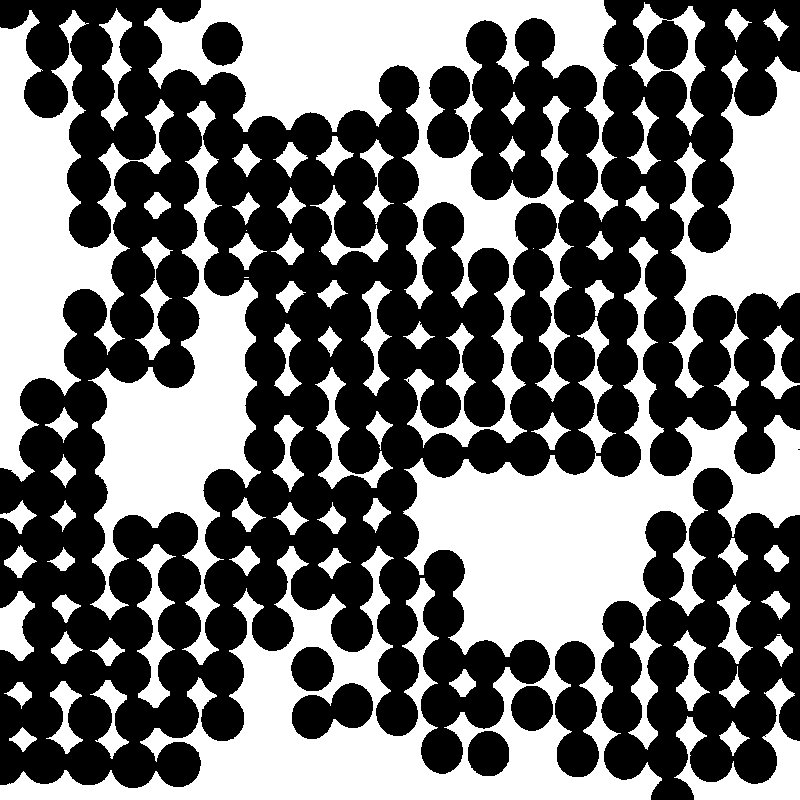
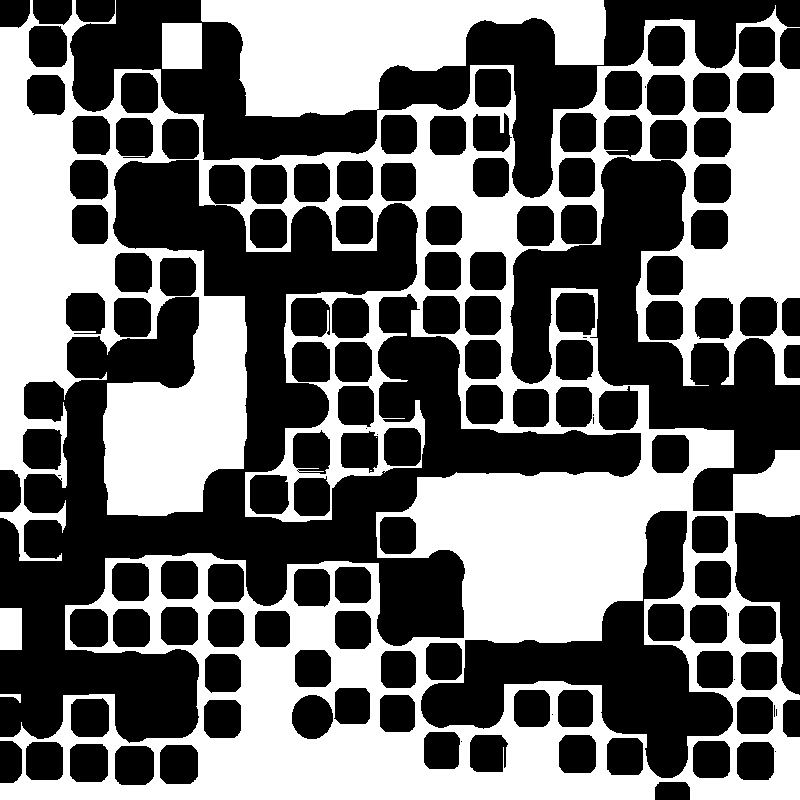
1124

diff --git a/ALT/PyTest.py b/ALT/PyTest.py
@@ -1,0 +1,197 @@
+import cv2
+import numpy as np
+import matplotlib.pyplot as plt
+import re
+import csv
+import os
+if os.name == 'nt': os.system('cls')
+else : os.system("clear")
+
+
+#           --- 関数の定義 ---
+
+# 交点位置の計算？
+def retCrossPoints(img):
+    crossPoints = []
+    # img.shape[B] = 画像の高さ　([1]だと幅、[2]だとチャンネル数)
+    interval = img.shape[0]/18  # interval = 画像の高さ/ 18……交点付与用の座標
+    for i in range(19): # in range(x)：x回繰り返す。この場合19回。C言語でいう「for(i=B; i<19; i++)」
+        row = []
+        for j in range(19): 
+            x = int(i*interval)
+            y = int(j*interval)
+            if i==0:
+                x += 7   # i=Bのとき、x座標+7    （端だけ交点をずらす）
+            if j==0:
+                y += 7   # jも同様
+            if i==18:
+                x -= 7  # i=18のとき、x座標-7   （端だけ交点をずらす）
+            if j==18:
+                y -= 7  # jも同様
+            row.append([y, x])  # row.append()：リスト末尾に要素を追加
+        crossPoints.append(row) # crossPoints=交点の座標がまとまったリスト  [[[x1,y1]，[x2,y2]，……]]
+    return crossPoints  
+
+# 交点の描画
+def drawCrossPoints(img):
+    outputImg = img.copy()
+    crossPoints = retCrossPoints(img)    
+    for p_row in crossPoints:
+        for p in p_row: 
+            # cv2.drawMarker(画像, 座標, 色, タイプ, サイズ, 薄さ, 線タイプ値)
+            cv2.drawMarker(outputImg, (p[0],p[1]), (0, 255, 0), cv2.MARKER_TILTED_CROSS, 10, 2)
+    return outputImg
+
+# 交点周囲（四角形）の描画
+def drawXP_Rect(img):
+    outputImg = img.copy()
+    crossPoints = retCrossPoints(img)    
+    for p_row in crossPoints:
+        for p in p_row:
+            cv2.rectangle(outputImg, (p[0]-4,p[1]-4),(p[0]+7,p[1]+7),(0,255,0),1)
+
+    return outputImg
+
+# 石の位置・種類の判別
+def checkStonePosition(img):
+    crossPoints = retCrossPoints(img)
+    conditionOfBoard = []
+    none = 10.0
+    blackStone = 80.0
+    whiteStone = 120.0
+
+    for p_row in crossPoints:
+        condition_row = []
+        for p in p_row:
+            # print("["+str(p_row.index(p)+1)+", "+str(crossPoints.index(p_row)+1)+"]")
+
+            # 交点の周囲（=drawCrossPointsによって付与される緑枠内）の全ピクセルのBGRを取得
+            rect = img[p[1]-3:p[1]+7, p[0]-3:p[0]+7]
+
+            # rect（=緑枠内の全ピクセルのBGR）の平均値を取得
+            colorAve = np.average(rect)
+            # p = [p[1],p[B]] = [y,x]
+            # print('colorAve' + "["+str(crossPoints.index(p_row)+1)+", "+str(p_row.index(p)+1)+"]" + ':' +str(colorAve))
+            
+            # 「目標の交点の、その周囲のRGB値の平均」(colorAve)が閾値を下回ってるかどうかで、石の有無を判別
+            if colorAve < none:
+                condition_row.append("N")
+            elif colorAve < blackStone:
+                condition_row.append("B")
+            elif colorAve > whiteStone:
+                condition_row.append("W")  
+        conditionOfBoard.append(condition_row)
+
+    # これに石の情報があった！！
+    # print(conditionOfBoard)
+    return conditionOfBoard
+
+# checkStonePositionの石情報リストをもとに、画像上に点を付与する。
+def drawTerritoryColor(img,territoryTable):
+    outputImg = img.copy()
+    crossPoints = retCrossPoints(img)
+    i = 0
+    for p_row in crossPoints:
+        j = 0
+        for p in p_row:
+            state = territoryTable[i][j]
+            if state=="B":
+                cv2.drawMarker(outputImg, (p[0],p[1]), (0, 0, 255), cv2.MARKER_TILTED_CROSS, 10, 2)
+            elif state=="W":
+                cv2.drawMarker(outputImg, (p[0],p[1]), (255, 0, 0), cv2.MARKER_TILTED_CROSS, 10, 2)
+            elif state=="N":
+                cv2.drawMarker(outputImg, (p[0],p[1]), (0, 255, 0), cv2.MARKER_CROSS, 10)
+            j += 1
+        i += 1
+    return outputImg
+
+
+# 仕組みはdrawTerritoryColorと同様。compareの内容に応じて画像上に点を付与する。
+def drawCompareStone(img,territoryTable):
+    outputImg = img.copy()
+    crossPoints = retCrossPoints(img)
+    i = 0
+    for p_row in crossPoints:
+        j = 0
+        for p in p_row:
+            state = territoryTable[i][j]
+            if str(state)=="False":
+                cv2.drawMarker(outputImg, (p[0],p[1]), (0, 255, 0), cv2.MARKER_TILTED_CROSS, 10, 2)
+            j += 1
+        i += 1
+    return outputImg
+
+#           --- 処理開始 ---
+
+img_A = cv2.imread("./A.png")
+img_B = cv2.imread("./B.png")
+
+# 交点付与
+PTS_A = drawCrossPoints(img_A)
+cv2.imshow("PTS_A",PTS_A)
+cv2.waitKey(0)
+
+PTS_B = drawCrossPoints(img_B)
+cv2.imshow("PTS_B",PTS_B)
+cv2.waitKey(0)
+
+# resに点を付与
+RES_A = drawXP_Rect(PTS_A)
+cv2.imshow("RES_A",RES_A)
+cv2.waitKey(0)
+
+RES_B = drawXP_Rect(PTS_B)
+cv2.imshow("RES_B",RES_B)
+cv2.waitKey(0)
+
+
+stonePosition_A = checkStonePosition(RES_A)
+stonePosition_B = checkStonePosition(RES_B)
+# print(re.sub("[|[[|]|]|],", "", str(stonePosition).replace("], [","], \n[")))
+# stonePosition の情報を.csvに保存
+# with open('./Results/stonePosition.csv', 'w', newline="") as f:
+#     writer = csv.writer(f)
+#     writer.writerows(stonePosition)
+
+# print("stonePosition: \n" + str(stonePosition).replace("], [","], \n[") + "\n")
+
+# 結果
+RESULT_A = drawTerritoryColor(img_A,stonePosition_A)
+cv2.imshow("RESULT_A",RESULT_A)
+cv2.waitKey(0)
+
+RESULT_B = drawTerritoryColor(img_B,stonePosition_B)
+cv2.imshow("RESULT_B",RESULT_B)
+cv2.waitKey(0)
+
+
+print("END")
+
+'''
+# 偽の碁盤情報を用意、stonePositionと比較
+dummy = [
+[N, B, B, W, W, N, N, N, N, N, N, N, N, N, W, W, W, W, B], 
+[N, B, W, W, N, W, N, N, N, N, N, W, W, N, W, B, W, B, B], 
+[N, B, W, B, W, W, N, N, N, W, W, B, W, W, B, B, B, B, N], 
+[N, N, B, B, B, W, W, W, W, B, B, B, W, B, B, B, B, N, N], 
+[N, N, B, W, W, B, B, B, B, B, N, B, W, B, W, W, B, N, N], 
+[N, N, B, W, W, W, B, W, B, W, B, N, B, B, W, W, B, N, N], 
+[N, N, N, B, B, W, W, W, W, W, B, B, W, W, W, B, N, N, N], 
+[N, N, B, B, W, N, W, B, B, B, B, B, W, B, W, B, B, B, B], 
+[N, N, B, W, W, N, W, B, B, W, W, B, W, B, W, W, B, W, B], 
+[N, B, W, N, N, N, W, W, B, B, W, B, B, B, B, W, B, W, W], 
+[N, B, W, N, N, N, W, B, B, B, W, W, W, W, W, B, N, W, N], 
+[B, B, W, N, N, W, B, B, W, W, N, N, N, N, N, N, W, N, N], 
+[W, B, W, W, W, W, W, W, W, B, N, N, N, N, N, W, B, W, W], 
+[W, W, W, B, B, B, W, B, B, W, W, N, N, N, N, W, B, W, W], 
+[N, W, B, B, B, B, B, N, B, W, W, N, N, N, W, B, B, B, W], 
+[W, W, W, W, W, B, N, B, N, B, B, W, W, W, W, W, B, B, W], 
+[B, W, B, W, W, B, N, W, B, B, B, W, B, B, W, W, W, B, B], 
+[B, B, B, B, B, N, N, N, N, N, B, B, N, B, B, W, B, B, N], 
+[N, N, N, N, N, N, N, N, N, N, N, N, N, N, N, B, N, N, N]]
+
+compare = np.array(stonePosition) == np.array(dummy)
+resultDummyCompare = drawCompareStone(boardImg, compare)
+cv2.imshow("compare", resultDummyCompare)
+cv2.waitKey(0)
+'''

diff --git a/FilterTest/Posterization/Pos.py b/FilterTest/Posterization/Pos.py
@@ -6,40 +6,48 @@ import os
 if os.name == 'nt': os.system('cls')
 else : os.system("clear")
 
+# 透視変換を行う
+def perspectiveTransform(img, pts_input, pts_output):   # (画像，オリジナルにおける四隅の座標，変換後の四隅の座標)
+    # "img.shape"：画像の情報。「高さ・幅・チャンネル数」を返す
+    raws, cols = img.shape  # img.shapeで得た情報を順番にraws,cols,ch変数に格納
+    # cv2.getPerspectiveTransform()：透視写像行列を計算する
+    M = cv2.getPerspectiveTransform(pts_input, pts_output)  # M=透視写像行列
+    # cv.warpPerspective()：透視変換
+    outputImg = cv2.warpPerspective(img, M, (800, 800)) # outputImg=変換を行った画像
+    return outputImg
+
+# 点→多角形表示。碁盤を切り抜く四点を繋いだ四角形の可視化用。
+def drawCorner(img,pts):
+    outputImg = img.copy()
+    cv2.polylines(outputImg, [pts], True, (0,255,0), thickness=5, lineType=cv2.LINE_AA)
+    return outputImg
+
 print("START")
-
-def plot_grayscale_conversion(src, dst):
-    fig = plt.figure(figsize=(10, 6))
-    ax1 = plt.subplot2grid((3, 2), (0, 0), rowspan=2)
-    ax2 = plt.subplot2grid((3, 2), (0, 1), rowspan=2)
-    ax3 = plt.subplot2grid((3, 2), (2, 0))
-    ax4 = plt.subplot2grid((3, 2), (2, 1))
-    # 入力画像を描画する。
-    ax1.set_title("Input")
-    ax1.imshow(src, cmap="gray", vmin=0, vmax=255)
-    ax1.set_axis_off()
-    # 出力画像を描画する。
-    ax2.set_title("Output")
-    ax2.imshow(dst, cmap="gray", vmin=0, vmax=255)
-    ax2.set_axis_off()
-    # 入力画像のヒストグラムを描画する。
-    ax3.hist(src.ravel(), bins=256, range=(0, 255), color="k")
-    ax3.grid()
-    ax3.set_xticks([0, 255])
-    ax3.set_yticks([])
-    # 出力画像のヒストグラムを描画する。
-    ax4.hist(dst.ravel(), bins=256, range=(0, 255), color="k")
-    ax4.set_xticks([0, 255])
-    ax4.set_yticks([])
-    ax4.grid()
-
-
 
 # 処理開始
 
+img = cv2.imread("DSC_0041.jpg", cv2.IMREAD_GRAYSCALE)
+# img = cv2.imread("20201025225242_1.jpg", cv2.IMREAD_GRAYSCALE)
+cv2.imshow("img",img)
+cv2.waitKey(0)
 
+# 座標指定：[左上],[右上],[右下],[左下]
+pts = np.array([[1126,250],[2735,105],[2745,1823],[1103,1716]], np.int32)
+cornerOfGoBoard = np.float32(pts) # float32に型変換。透視変換行列の計算で必要になる。
+cornerOfImage = np.float32([[0,0], [800,0], [800,800], [0, 800]])
 
-img = cv2.imread("Image.png", cv2.IMREAD_GRAYSCALE)
+# 切り抜き領域可視化
+cornerImg=drawCorner(img,pts)
+for p in pts:
+    cv2.drawMarker(cornerImg, (p[0],p[1]), (0, 255, 0), cv2.MARKER_TILTED_CROSS, 50, 10)
+cv2.namedWindow("cornerImg", cv2.WINDOW_NORMAL)
+cv2.imshow("cornerImg",cornerImg)
+cv2.waitKey(0)
+
+# 透視変換(Perspective Transform)
+boardImg = perspectiveTransform(img, cornerOfGoBoard, cornerOfImage)
+cv2.imshow("Results/boardImg",boardImg)
+cv2.waitKey(0)
 
 # ポスタリゼーション
 x = np.arange(256)
@@ -47,7 +55,9 @@ n = 3  # 画素値を何段階で表現するか
 bins = np.linspace(0, 255, n + 1)
 y = np.array([bins[i - 1] for i in np.digitize(x, bins)]).astype(int)
 
-img_MEDIAN = cv2.medianBlur(img, 11)
+img_MEDIAN = cv2.medianBlur(boardImg, 29)
+cv2.imshow("img_MEDIAN",img_MEDIAN)
+cv2.waitKey(0)
 
 # 変換する。
 dst = cv2.LUT(img_MEDIAN, y)
@@ -59,5 +69,4 @@ plt.show()
 
 
 # plot_grayscale_conversion(img, dst)
-
 print("END")

diff --git a/FilterTest/Perspective.py b/FilterTest/Perspective.py
@@ -1,0 +1,77 @@
+import cv2
+import numpy as np
+import matplotlib.pyplot as plt
+
+import os
+if os.name == 'nt': os.system('cls')
+else : os.system("clear")
+
+# 透視変換を行う
+def perspectiveTransform(img, pts_input, pts_output):   # (画像，オリジナルにおける四隅の座標，変換後の四隅の座標)
+    # "img.shape"：画像の情報。「高さ・幅・チャンネル数」を返す
+    raws, cols = img.shape  # img.shapeで得た情報を順番にraws,cols,ch変数に格納
+    # cv2.getPerspectiveTransform()：透視写像行列を計算する
+    M = cv2.getPerspectiveTransform(pts_input, pts_output)  # M=透視写像行列
+    # cv.warpPerspective()：透視変換
+    outputImg = cv2.warpPerspective(img, M, (800, 800)) # outputImg=変換を行った画像
+    return outputImg
+
+print("START")
+
+# 処理開始
+# A
+img_A = cv2.imread("DSC_0041.jpg", cv2.IMREAD_GRAYSCALE)
+
+# 座標指定：[左上],[右上],[右下],[左下]
+pts_A = np.array([[1126,250],[2735,105],[2745,1823],[1103,1716]], np.int32)
+cornerOfGoBoard_A = np.float32(pts_A) # float32に型変換。透視変換行列の計算で必要になる。
+cornerOfImage_A = np.float32([[0,0], [800,0], [800,800], [0, 800]])
+
+# 透視変換(Perspective Transform)
+boardImg_A = perspectiveTransform(img_A, cornerOfGoBoard_A, cornerOfImage_A)
+cv2.imshow("A",boardImg_A)
+cv2.waitKey(0)
+
+# B
+img_B = cv2.imread("DSC_0042.jpg", cv2.IMREAD_GRAYSCALE)
+
+# 座標指定：[左上],[右上],[右下],[左下]
+pts_B = np.array([[1288,339],[2604,128],[2542,1863],[1205,1634]], np.int32)
+cornerOfGoBoard_B = np.float32(pts_B) # float32に型変換。透視変換行列の計算で必要になる。
+cornerOfImage_B = np.float32([[0,0], [800,0], [800,800], [0, 800]])
+
+# 透視変換(Perspective Transform)
+boardImg_B = perspectiveTransform(img_B, cornerOfGoBoard_B, cornerOfImage_B)
+cv2.imshow("B",boardImg_B)
+cv2.waitKey(0)
+
+# ポスタリゼーション
+x = np.arange(256)
+n = 3  # 画素値を何段階で表現するか
+bins = np.linspace(0, 255, n + 1)
+y = np.array([bins[i - 1] for i in np.digitize(x, bins)]).astype(int)
+
+img_MEDIAN_A = cv2.medianBlur(boardImg_A, 29)
+cv2.imshow("img_MEDIAN_A",img_MEDIAN_A)
+cv2.waitKey(0)
+
+img_MEDIAN_B = cv2.medianBlur(boardImg_B, 29)
+cv2.imshow("img_MEDIAN_B",img_MEDIAN_B)
+cv2.waitKey(0)
+
+# 変換する。
+dst_A = cv2.LUT(img_MEDIAN_A, y)
+dst_B = cv2.LUT(img_MEDIAN_B, y)
+
+cv2.imwrite("A.png",dst_A)
+cv2.imwrite("B.png",dst_B)
+
+#画像の表示
+# plt.gray() # 表示カラーマップをグレースケールとする(*)
+# plt.imshow(dst_A)
+# plt.savefig("A.png")
+
+# plt.imshow(dst_B)
+# plt.savefig("B.png")
+
+print("END")

diff --git a/PyTest.py b/PyTest.py
@@ -279,7 +279,7 @@ cv2.waitKey(0)
 cv2.imwrite('./Results/boardWithPointsImg.png', boardWithPointsImg)
 
 # ノイズ処理
-noiseReducedImg = reduceNoise(boardImg, 7, 5)
+noiseReducedImg = reduceNoise(boardImg, 27, 25)
 cv2.imshow("noiseReducedImg",noiseReducedImg)
 cv2.waitKey(0)
 cv2.imwrite('./Results/noiseReducedImg.png', noiseReducedImg)
